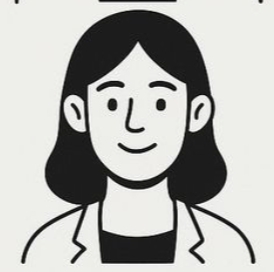
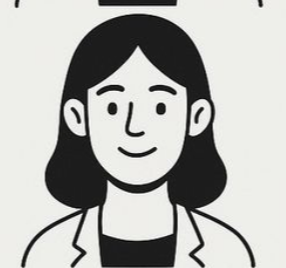
Swap maker portrait and accent color

diff --git a/index.html b/index.html
@@ -5,7 +5,7 @@
     <meta charset="UTF-8" />
     <meta name="viewport" content="width=device-width, initial-scale=1.0" />
     <title>초시대 가치 교육</title>
-    <link rel="stylesheet" href="css/style.css?v=20260708h" />
+    <link rel="stylesheet" href="css/style.css?v=20260708i" />
 </head>
 
 <body>
@@ -382,7 +382,7 @@
                     <article class="our-hearts__card maker-card surface--outline accent-top-blue">
                         <div class="maker-card__top">
                             <div class="maker-card__portrait">
-                                <img src="images/maker_jeong.png" alt="정해영 선생님 일러스트" class="maker-card__portrait-img" />
+                                <img src="images/maker_jeong.png?v=20260708a" alt="정해영 선생님 일러스트" class="maker-card__portrait-img" />
                             </div>
                             <div class="maker-card__identity">
                                 <span class="maker-card__eyebrow">교육 총괄</span>

diff --git a/css/style.css b/css/style.css
@@ -1199,21 +1199,34 @@ a {
 }
 
 .maker-card__portrait {
+    position: relative;
     width: 6.8rem;
     height: 6.8rem;
     flex-shrink: 0;
     border-radius: 1.75rem;
-    overflow: hidden;
-    background: #f7f6f2;
+    overflow: visible;
+    background: transparent;
+    box-shadow: none;
+}
+
+.maker-card__portrait::before {
+    content: '';
+    position: absolute;
+    inset: 0.35rem 0.25rem 0.25rem 0.65rem;
+    border-radius: 50%;
+    background: var(--dot-red);
     box-shadow: 0 18px 35px rgba(0, 0, 0, 0.08);
+    z-index: 0;
 }
 
 .maker-card__portrait-img {
+    position: relative;
+    z-index: 1;
     width: 100%;
     height: 100%;
     display: block;
     object-fit: contain;
-    padding: 0.35rem;
+    padding: 0.12rem 0 0 0;
 }
 
 .maker-card__identity {
